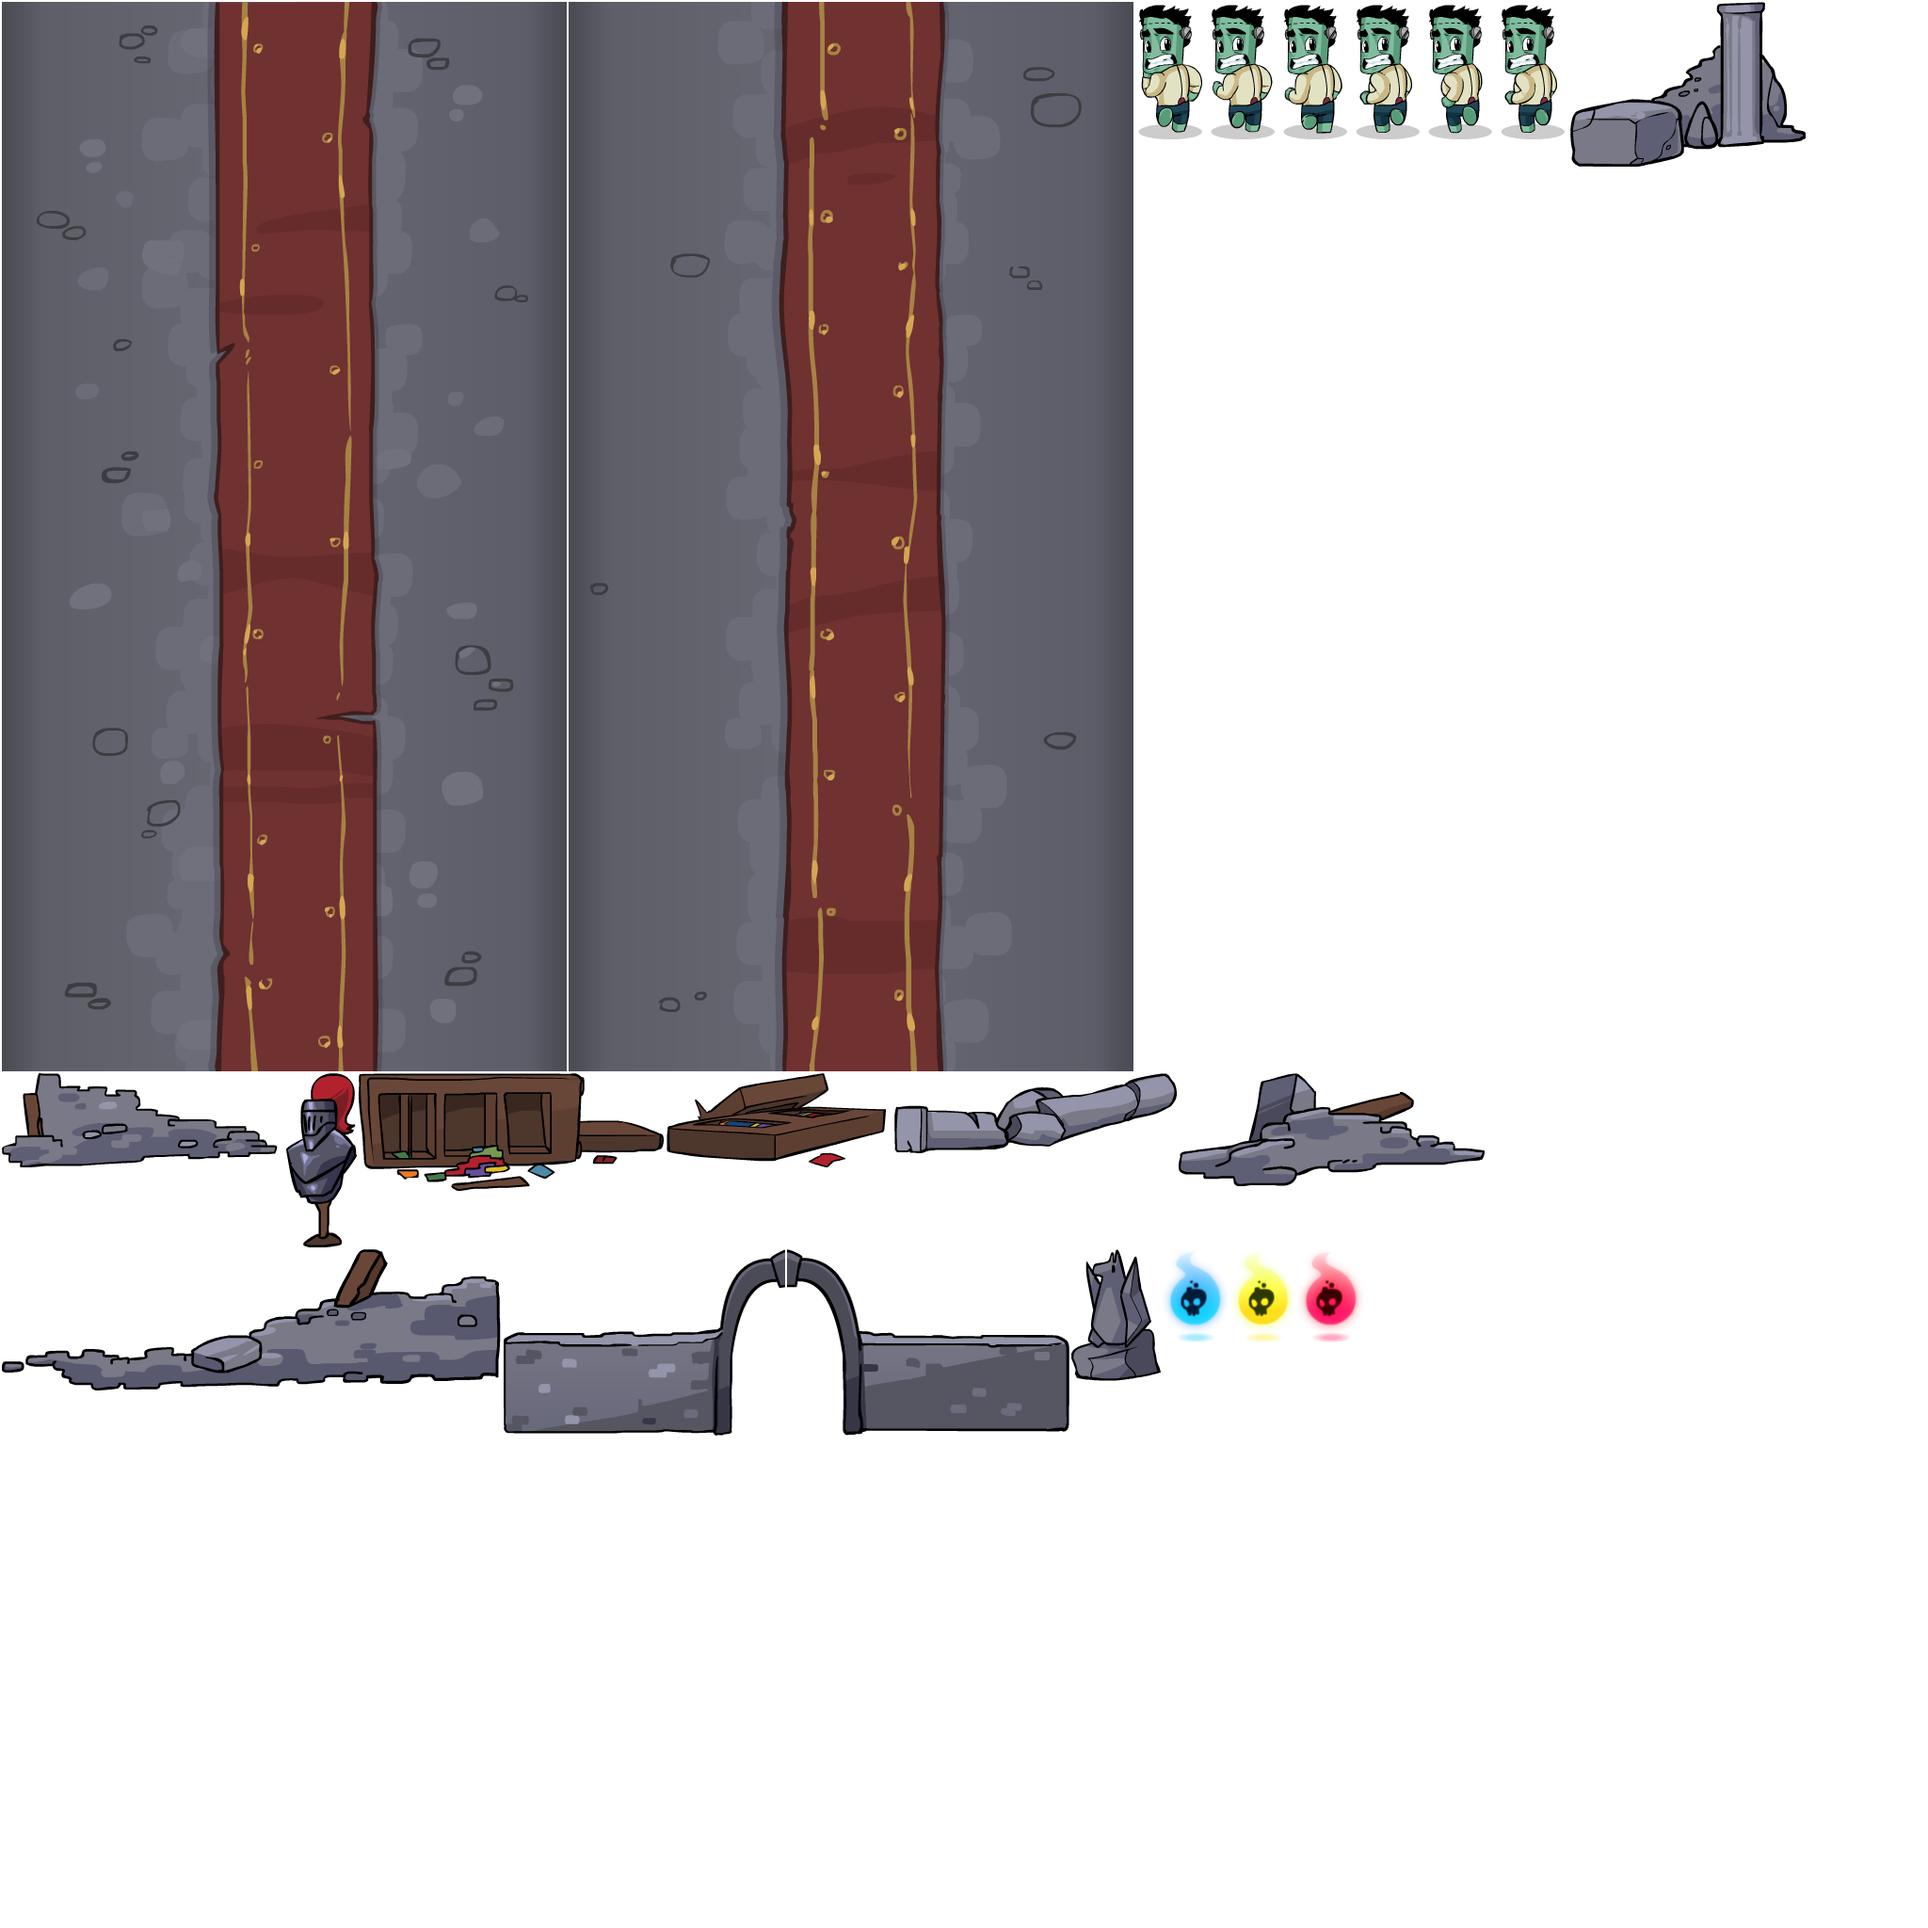
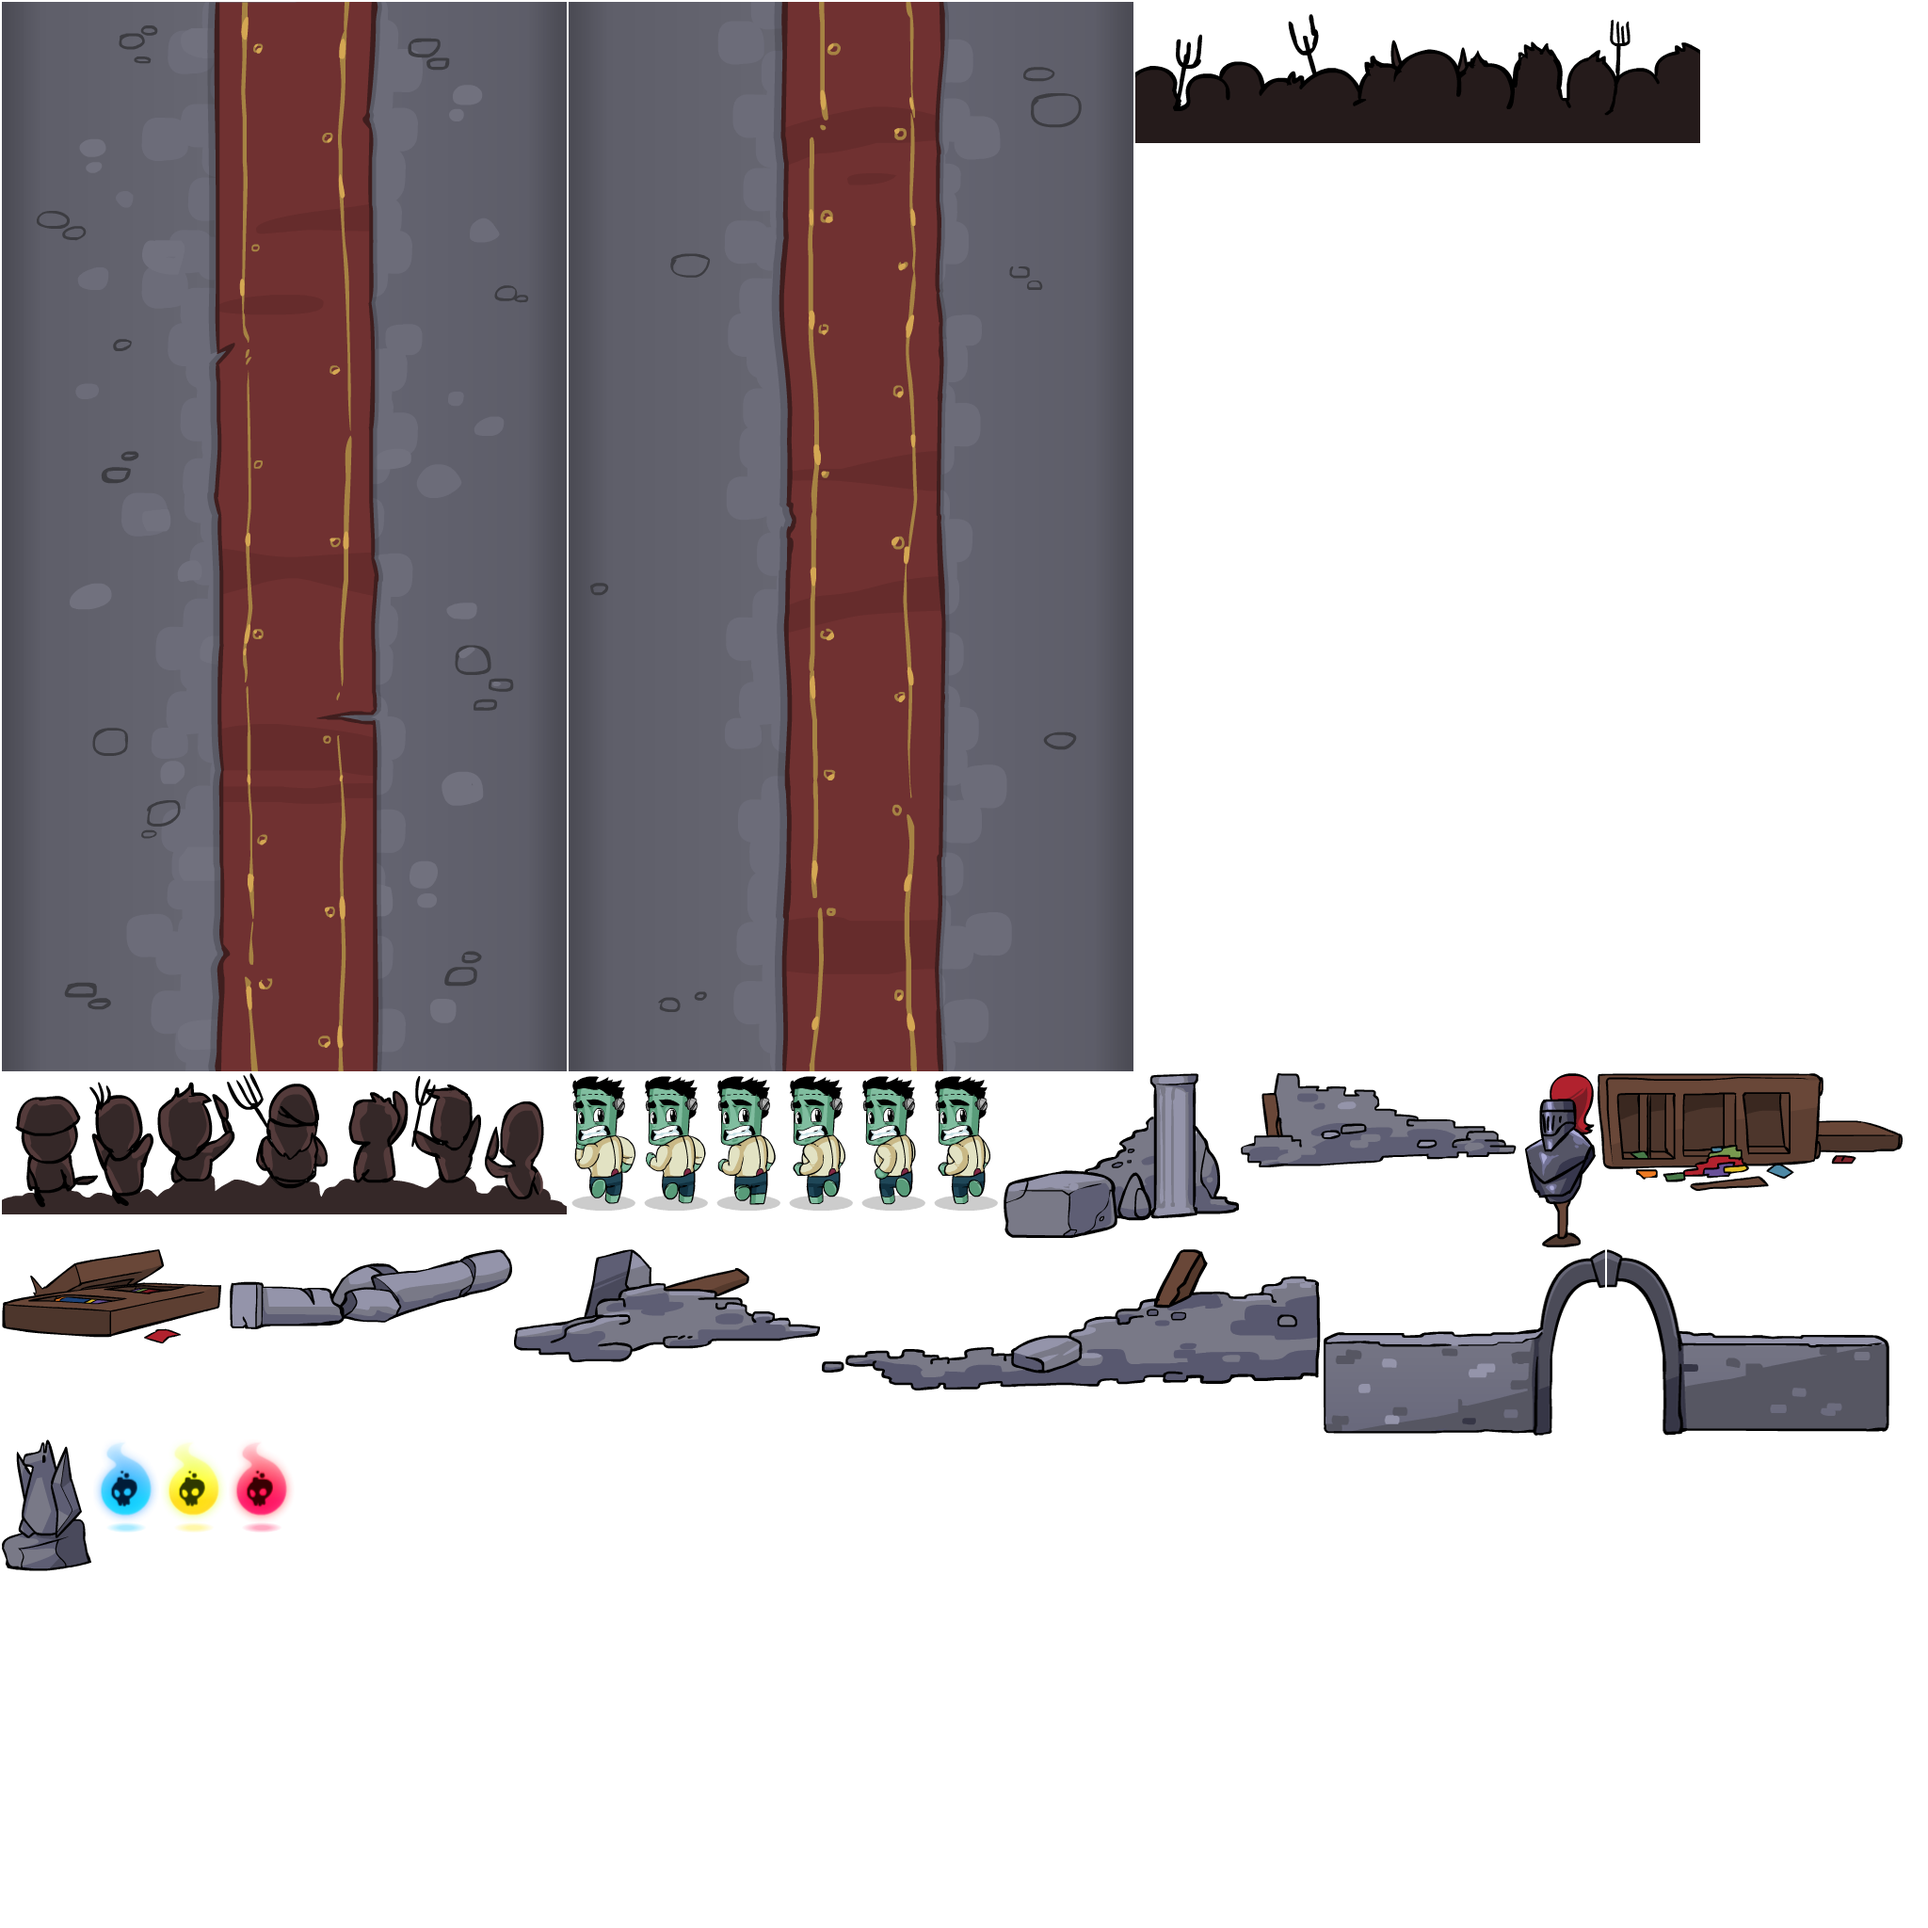
Mob graphics and animations

Changed region(s): [[0.0, 0.5312, 1.0, 0.75], [0.5625, 0.0, 0.9375, 0.0938], [0.0, 0.75, 0.1562, 0.8125]]

diff --git a/AngryMob/src/Sprites/Mob.js b/AngryMob/src/Sprites/Mob.js
@@ -1,6 +1,9 @@
 // AngryMob Copyright (c) 2015 Todor Radkov and Kristian Ignatov
 
 var Mob = cc.Sprite.extend({
+  RUN_ANIMATION_SPEED: 0.2,
+  frontSprite: null,
+  backSprite: null,
   ctor: function() {
     this._super();
     this.init();
@@ -10,11 +13,23 @@ var Mob = cc.Sprite.extend({
 
     this.setPosition(0, -80);
 
-    this.tempImage = cc.Sprite.create();
-    this.tempImage.setColor(cc.color.BLACK);
-    this.tempImage.setTextureRect(cc.rect(0, 0, this.winSize.width, 150));
-    this.tempImage.setAnchorPoint(0, 0);
-    this.tempImage.setPosition(0, 0);
-    this.addChild(this.tempImage);
+    this.frontSprite = new cc.Sprite('#mob_front.png');
+    this.frontSprite.setAnchorPoint(0, 0);
+    this.frontSprite.setPosition(0, 0);
+
+    this.backSprite = new cc.Sprite('#mob_back.png');
+    this.backSprite.setAnchorPoint(0, 0);
+    this.backSprite.setPosition(0, -10);
+
+    this.frontSpriteAnimation = cc.sequence(cc.moveTo(this.RUN_ANIMATION_SPEED, 0, 5), cc.moveTo(this.RUN_ANIMATION_SPEED, 0, 0));
+    this.frontSpriteAnimation.repeatForever();
+    this.backSpriteAnimation = cc.sequence(cc.moveTo(this.RUN_ANIMATION_SPEED, 0, -5), cc.moveTo(this.RUN_ANIMATION_SPEED, 0, 0));
+    this.backSpriteAnimation.repeatForever();
+
+    this.addChild(this.frontSprite);
+    this.addChild(this.backSprite);
+
+    this.frontSprite.runAction(this.frontSpriteAnimation);
+      this.backSprite.runAction(this.backSpriteAnimation);
   }
 });

diff --git a/AngryMob/src/Layers/Game/GameUILayer.js b/AngryMob/src/Layers/Game/GameUILayer.js
@@ -97,7 +97,7 @@ var GameUILayer = cc.Layer.extend({
           this.soulCanister.setScale(Math.lerp(0.5, 1, souls));
           this.soulCounter.setLabelText(Math.round(this.soulsCollectedTemp - soulCount));
           this.endingSoulsLabel.setScale(Math.lerp(0.5, 1, souls));
-          this.endingSoulsLabel.setString(Math.round(soulCount));
+          this.endingSoulsLabel.setString(Math.round(soulCount) + Memory.get('souls'));
         },
         this
     ));
@@ -123,13 +123,12 @@ var GameUILayer = cc.Layer.extend({
     this.soulCanister.setRotation(20);
     this.soulCanister.setScale(0);
 
-    this.endingSoulsLabel = new cc.LabelTTF('0', G.DEFAULT_FONT, 90);
+    this.endingSoulsLabel = new cc.LabelTTF(Memory.get('souls').toString(), G.DEFAULT_FONT, 90);
     this.endingSoulsLabel.setPosition(300, 460);
     this.endingSoulsLabel.verticalAlign = 1;
     this.endingSoulsLabel.strokeStyle = cc.color.BLACK;
     this.endingSoulsLabel.lineWidth = 6;
     this.endingSoulsLabel.setScale(0);
-
 
     this.retryButton = new Button('Retry', cc.p(175, 125), this.transitionToMainMenu);
     this.menuButton = new Button('Menu', cc.p(175, 225), this.transitionToMainMenu);

diff --git a/AngryMob/src/Layers/Game/GameObjectsLayer.js b/AngryMob/src/Layers/Game/GameObjectsLayer.js
@@ -86,10 +86,7 @@ var GameObjectsLayer = cc.Layer.extend({
   },
 
   instantiatePauseOverlay: function() {
-    this.overlay = cc.Sprite.create();
-    this.overlay.setColor(cc.color.BLACK);
-    this.overlay.setTextureRect(cc.rect(0, 0, this.winSize.width, this.winSize.height));
-    this.overlay.setAnchorPoint(0, 0);
+    this.overlay = new cc.LayerGradient(cc.color(0,0,0,255), cc.color(20, 64, 96, 255));
     this.overlay.opacity = 0;
     this.addChild(this.overlay);
 
